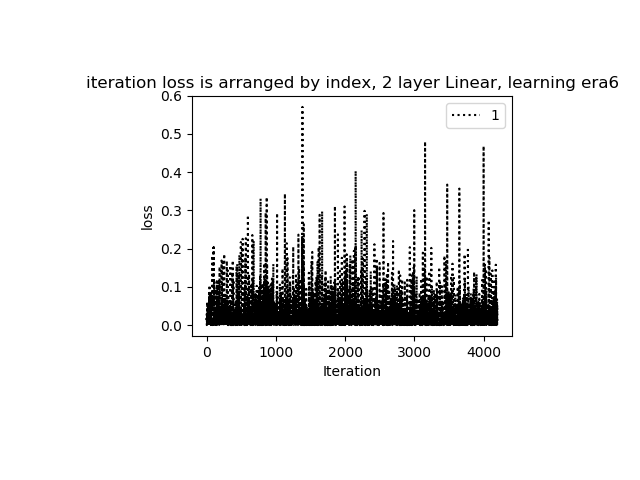
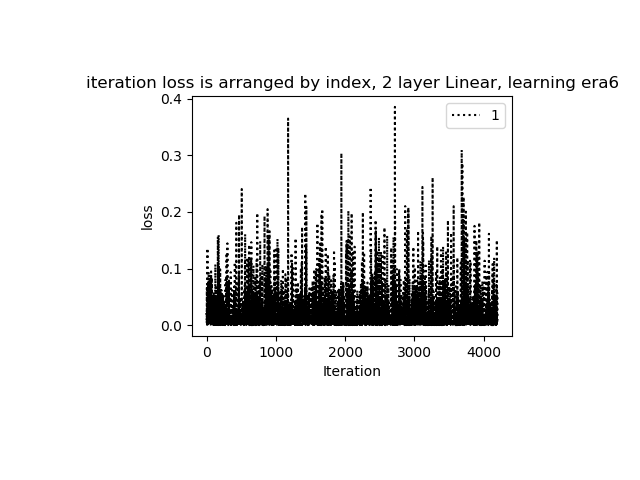
Two linear layer 300 two time steps

diff --git a/train_LSTM_RNN .py b/train_LSTM_RNN .py
@@ -229,6 +229,7 @@ if __name__ == "__main__":
     time_step_speed=2# number of time steps to put into vocabulary(actially it is a function of the speed of the boundaries of a buble)
     time_step_signature=30# number of samples added to signature of state of boiling
 
+
     number_of_samples_lstm=21*12000
     first_sample_lstm=28*12000 #63 * 12000
 
@@ -243,7 +244,7 @@ if __name__ == "__main__":
     heat_statistics=np.zeros(shape=(number_of_sequences, statistic_map.shape[0]), dtype='int64')
 
     print('input 0')
-    print(input)
+
     target=torch.FloatTensor(number_of_sequences)
 
     # number of features input, number of features hidden layer ,2- number or recurent layers
@@ -384,10 +385,39 @@ if __name__ == "__main__":
         print('load 1')
         print(target)
 
-    #print('normalization')
-    #for sequence_num in range(0, number_of_sequences):
-    #    print(sequence_num)
-    #    input_captured[sequence_num]=input_captured[sequence_num]/torch.max(input_captured[sequence_num])
+
+    number_of_seq_together=10 #number of sequences by time_step_signature added to one sequence for reusing code
+    number_of_new_sequences=int(math.floor(number_of_sequences/number_of_seq_together))#number of sequrnces after adding seq to one
+    new_input_captured=Variable(torch.IntTensor(number_of_new_sequences, input_captured.data.shape[1], input_captured.data.shape[2], input_captured.data.shape[3]*number_of_seq_together))#tensor for repead using of captured feature
+    new_target=Variable(torch.FloatTensor(number_of_new_sequences))
+    error=numpy.zeros(shape=(number_of_new_sequences), dtype='float32')
+    error_by_heat=numpy.zeros(shape=(number_of_new_sequences), dtype='float32')
+
+    print('changing size')
+    #here i change size of one sequence
+    for new_sequences in range(0,number_of_new_sequences):
+        new_target[new_sequences]=target[new_sequences*number_of_seq_together]
+        print('new_sequence'+str(new_sequences))
+        seq_from=new_sequences*number_of_seq_together
+        seq_to=(new_sequences+1)*number_of_seq_together
+        for sequence in range (seq_from, seq_to):
+            for j in range (0,new_input_captured.data.shape[1]):
+                for feature in range(0, input_captured.data.shape[3]):
+                    a=input_captured.data[sequence,j,0,feature]
+                    new_input_captured.data[new_sequences,j,0,(sequence-seq_from)*input_captured.data.shape[3]+feature]=a
+
+    print(new_input_captured[10,0,0])
+    print(input_captured[100,0,0])
+    input_captured=new_input_captured
+    target=new_target
+    number_of_sequences=number_of_new_sequences
+
+    input = captured_decomposer(input_captured[0], feature_map, time_step_speed)
+
+    ln1=torch.nn.Linear(input.data.shape[2],100)
+    ln2 = torch.nn.Linear(100, hidden_features)
+
+
     steps_to_print=number_of_sequences-1
     print('learning started')
         # repead cycle by all samples
@@ -426,19 +456,19 @@ if __name__ == "__main__":
             if index==steps_to_print*int(index/steps_to_print):
                 plt.clf()
                 plt.axes([0.3, 0.3, 0.5, 0.5])
-                plt.title ('iteration loss is arranged by index, 2 layer Linear, learning era'+str(era+1))
+                plt.title ('iteration loss is arranged by index,300 times 2 layer Linear, learning era'+str(era+1))
                 plt.plot(error, 'k:', label='1')
                 plt.xlabel('Iteration')
                 plt.ylabel('loss')
                 plt.legend()
                 basePath = os.path.dirname(os.path.abspath(__file__))
-                results_dir = basePath+ '/Models/LSTM/05_04_18_X-Time/'
+                results_dir = basePath+ '/Models/LSTM/07_04_18_X-Time/'
                 sample_file_name = 'Error_linear2layer_' + str(steps_to_print) + '_steps_era_'+str(era)+'.png'
                 plt.savefig(results_dir + sample_file_name)
 
                 plt.clf()
                 plt.axes([0.3, 0.3, 0.5, 0.5])
-                plt.title ('iteration error is arranged by heat load, 2 layer Linear, learning era'+str(era+1))
+                plt.title ('iteration error is arranged by heat load,300 times 2 layer Linear, learning era'+str(era+1))
                 plt.plot(error_by_heat, 'k:', label='1')
                 plt.xlabel('Heat load')
                 plt.ylabel('error')
